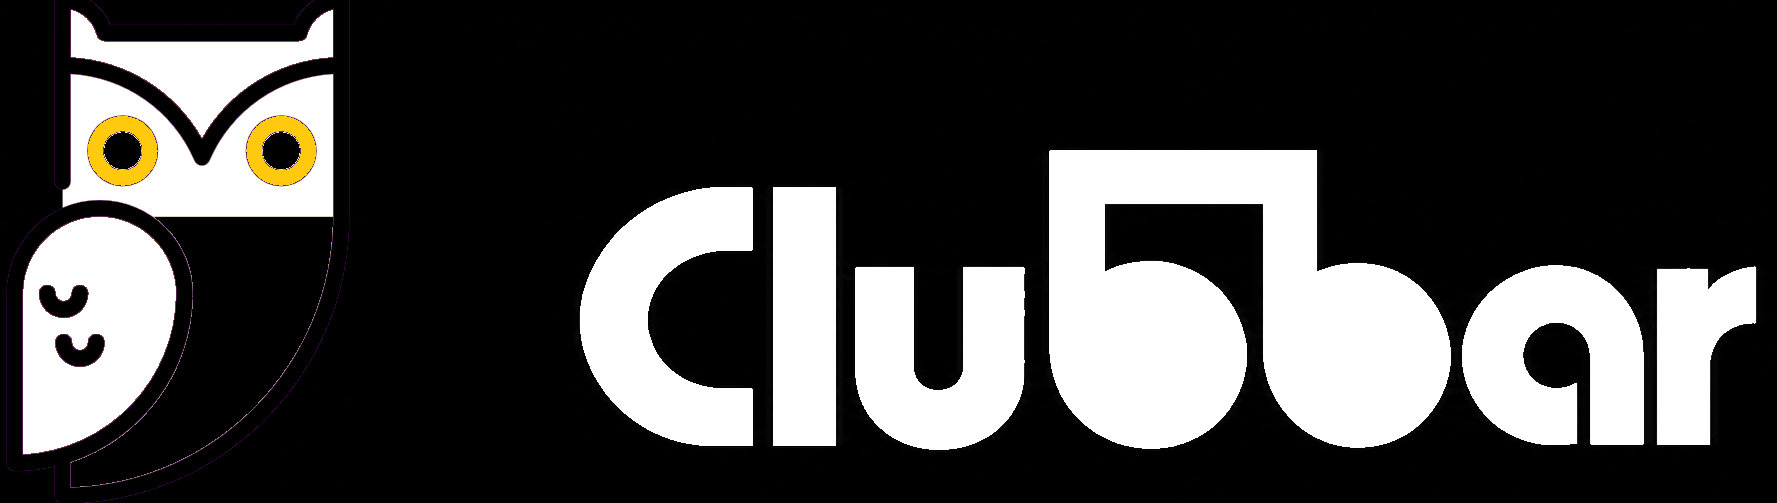
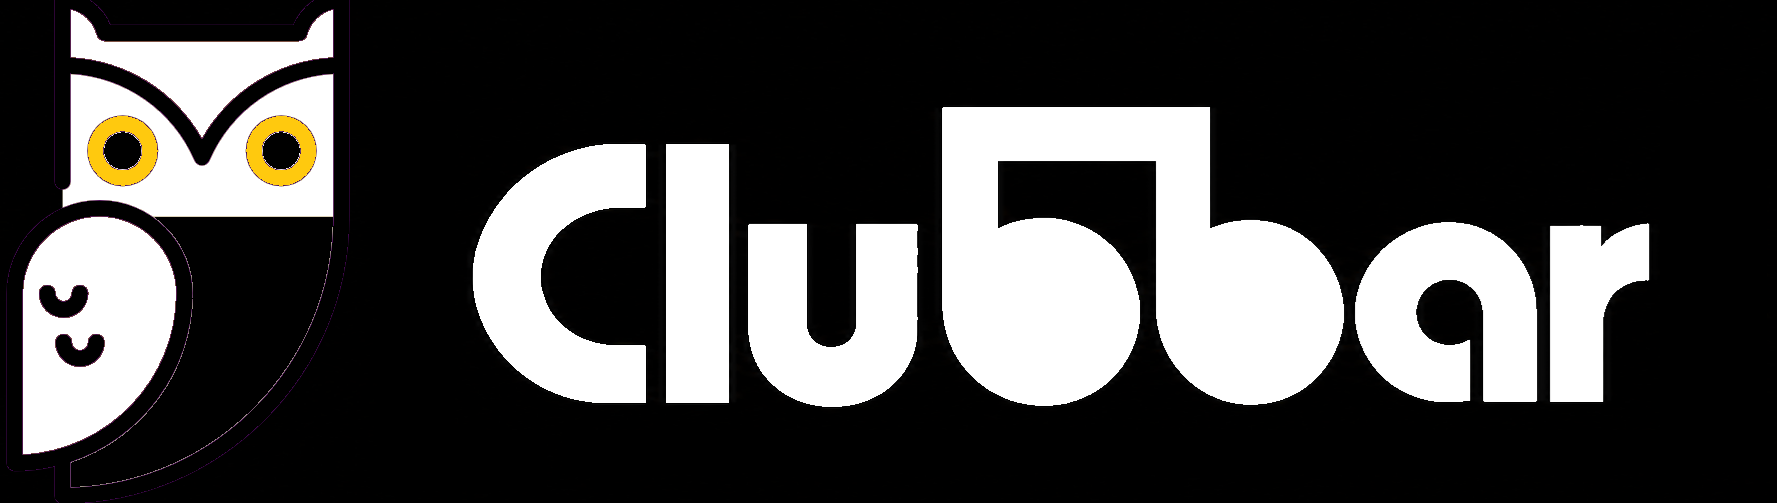
alterações tricia 2

Changed region(s): [[0.2476, 0.2087, 0.9904, 0.8946]]

diff --git a/lib/widgets/clubbar_app_bar.dart b/lib/widgets/clubbar_app_bar.dart
@@ -1,40 +1,6 @@
 import 'package:flutter/material.dart';
 import '../services/main_navigation_controller.dart';
 
-class ClubbarBrandLogo extends StatelessWidget {
-  final double owlHeight;
-
-  const ClubbarBrandLogo({super.key, this.owlHeight = 40});
-
-  @override
-  Widget build(BuildContext context) {
-    final wordmarkHeight = owlHeight * 0.45;
-    return SizedBox(
-      height: owlHeight,
-      child: Row(
-        mainAxisSize: MainAxisSize.min,
-        crossAxisAlignment: CrossAxisAlignment.start,
-        children: [
-          Image.asset(
-            'assets/images/corujao.png',
-            height: owlHeight,
-            fit: BoxFit.contain,
-          ),
-          const SizedBox(width: 6),
-          Padding(
-            padding: EdgeInsets.only(top: owlHeight * 0.10),
-            child: Image.asset(
-              'assets/images/clubbar_wordmark_white.png',
-              height: wordmarkHeight,
-              fit: BoxFit.contain,
-            ),
-          ),
-        ],
-      ),
-    );
-  }
-}
-
 class ClubbarAppBar extends StatelessWidget implements PreferredSizeWidget {
   final String? titulo;
   final bool mostrarCarrinho;
@@ -54,7 +20,7 @@ class ClubbarAppBar extends StatelessWidget implements PreferredSizeWidget {
     this.onCarrinhoTap,
     this.mostrarVersao = false,
     this.mostrarVoltar = false,
-    this.logoPath = 'assets/images/clubbar_topbar_white.png',
+    this.logoPath = 'assets/images/clubbar_topbar.png',
     this.onVoltar,
     this.actions = const [],
   });
@@ -90,10 +56,10 @@ class ClubbarAppBar extends StatelessWidget implements PreferredSizeWidget {
   }
 
   Widget _logoClubbar() {
-    if (logoPath == 'assets/images/clubbar_topbar_white.png') {
-      return const ClubbarBrandLogo();
-    }
-    return Image.asset(logoPath, height: 40, fit: BoxFit.contain);
+    return ColorFiltered(
+      colorFilter: const ColorFilter.mode(Colors.white, BlendMode.srcIn),
+      child: Image.asset(logoPath, height: 40, fit: BoxFit.contain),
+    );
   }
 
   @override

diff --git a/lib/screens/fale_conosco/fale_conosco_screen.dart b/lib/screens/fale_conosco/fale_conosco_screen.dart
@@ -1,6 +1,5 @@
 import 'package:flutter/material.dart';
 import '../../services/main_navigation_controller.dart';
-import '../../widgets/clubbar_app_bar.dart';
 
 class FaleConoscoScreen extends StatelessWidget {
   const FaleConoscoScreen({super.key});
@@ -83,7 +82,11 @@ class FaleConoscoScreen extends StatelessWidget {
         titleSpacing: 0,
         title: Row(
           children: [
-            const ClubbarBrandLogo(owlHeight: 29),
+            Image.asset(
+              'assets/images/clubbar_topbar.png',
+              height: 29,
+              fit: BoxFit.contain,
+            ),
             const SizedBox(width: 10),
             const Text(
               'Fale conosco',
